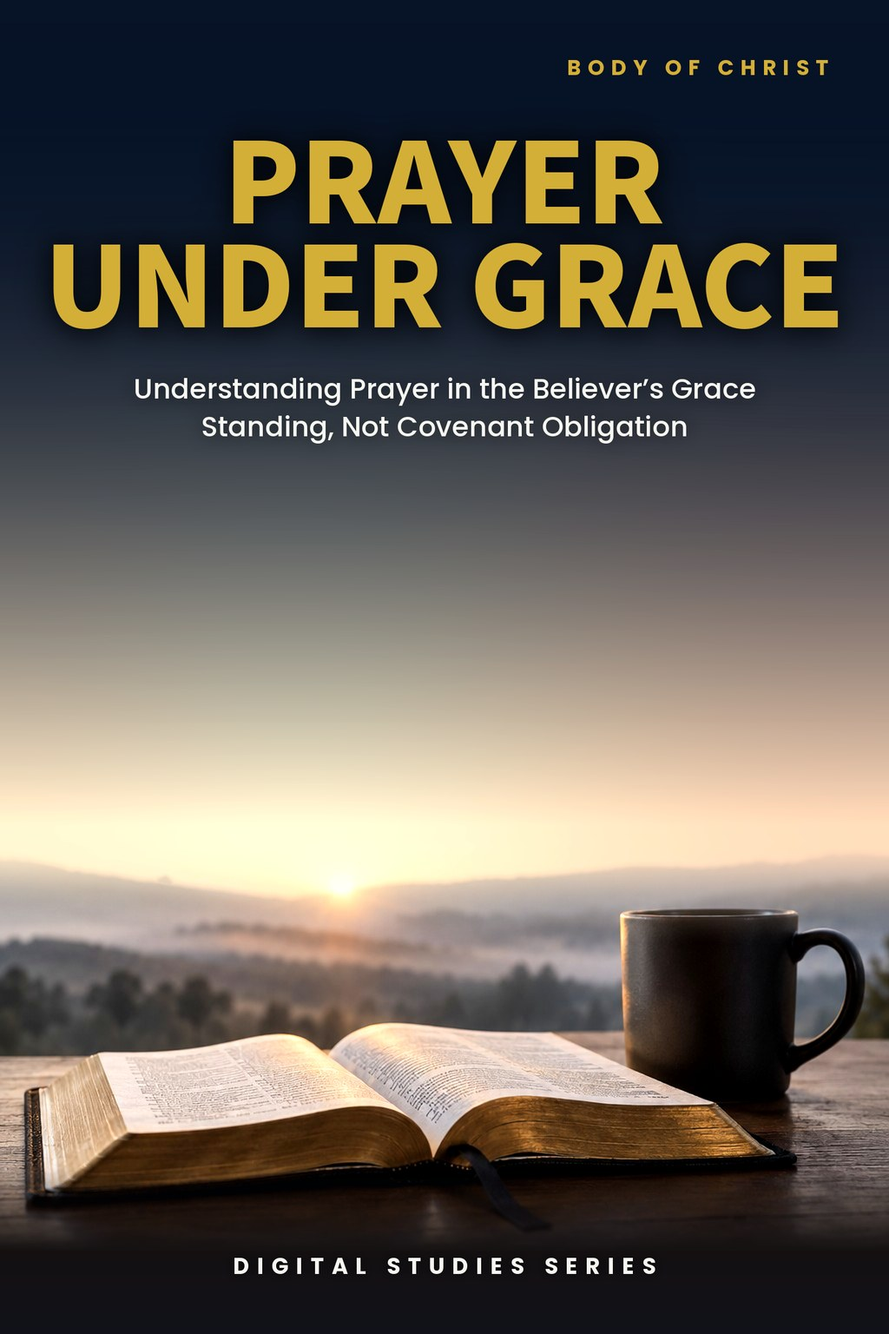
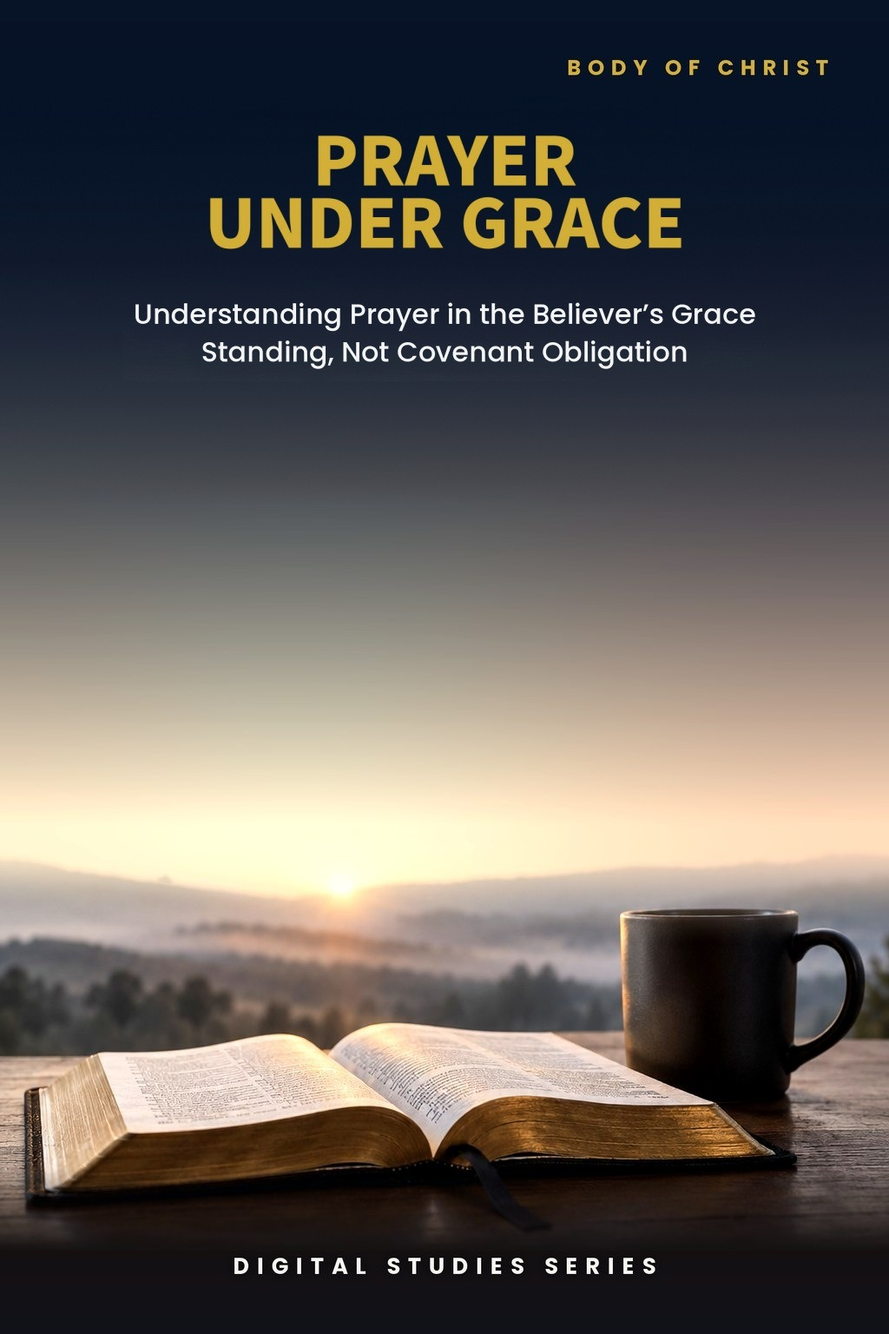
Study 22: Roboto rebuild, approved PAM addition and figure relabel, cover title reduced (jpg+webp), three previews, 16 pages; tracker v1.51
Claude-Session: https://claude.ai/code/session_01TLNFW47XCW6YAMUxScR3v4

Changed region(s): [[0.0312, 0.0938, 0.9375, 0.3438]]

diff --git a/study-22-prayer-under-grace.html b/study-22-prayer-under-grace.html
@@ -14,7 +14,7 @@
   <body class="study-detail-page">
     <header class="site-header"><div class="wrap nav"><a class="logo" href="index.html" aria-label="Zay-Marie Press home"><img src="assets/zay-marie-press-logo-hq.png" alt="Zay-Marie Press" width="420" height="238" /></a><button class="menu-toggle" type="button" aria-expanded="false" aria-controls="primary-nav">MENU</button><nav aria-label="Primary navigation" class="primary-nav" id="primary-nav"><a href="index.html">HOME</a><a href="books.html">BOOKS</a><a href="series.html">SERIES</a><a class="active" aria-current="page" href="digital-studies.html">DIGITAL STUDIES</a><a href="biblical-hermeneutics-course.html">COURSE</a><a href="about.html">ABOUT</a><a href="resources.html">RESOURCES</a><a href="contact.html">CONTACT</a></nav></div></header>
     <main>
-      <section class="detail-hero"><div class="wrap detail-hero-grid"><div class="detail-cover"><img src="assets/study-22-cover.jpg" alt="Prayer Under Grace - Study 22 cover" /></div><div><div class="eyebrow">STUDY 22 · DIGITAL STUDY</div><h1>Prayer Under Grace</h1><p class="detail-subtitle">Understanding Prayer in the Believer’s Grace Standing, Not Covenant Obligation</p><p class="detail-kicker">A Biblical Study of Kingdom Promises, Pauline Instruction, and Confident Prayer</p><p class="detail-copy">Prayer remains vital under Grace, but every biblical prayer promise must be read in the audience and revelatory setting in which God gave it. Kingdom promises spoken to Israel and the Twelve retain their full force in their own setting; Paul’s instruction gives the Body of Christ its governing doctrine of prayer.</p><p class="detail-copy">This study traces Paul’s teaching on requests, thanksgiving, intercession, peace, weakness, and sufficient grace. It equips believers to pray confidently, specifically, and continually while resting in God’s wisdom and will.</p><div class="detail-buyline"><span class="detail-price">$5.99</span><span class="detail-format">Digital PDF · 15 Pages</span><span class="detail-button pending" aria-disabled="true">Checkout Coming Soon</span></div></div></div></section>
+      <section class="detail-hero"><div class="wrap detail-hero-grid"><div class="detail-cover"><picture><source srcset="assets/study-22-cover.webp" type="image/webp"><img src="assets/study-22-cover.jpg" alt="Prayer Under Grace - Study 22 cover" /></picture></div><div><div class="eyebrow">STUDY 22 · DIGITAL STUDY</div><h1>Prayer Under Grace</h1><p class="detail-subtitle">Understanding Prayer in the Believer’s Grace Standing, Not Covenant Obligation</p><p class="detail-kicker">A Biblical Study of Kingdom Promises, Pauline Instruction, and Confident Prayer</p><p class="detail-copy">Prayer remains vital under Grace, but every biblical prayer promise must be read in the audience and revelatory setting in which God gave it. Kingdom promises spoken to Israel and the Twelve retain their full force in their own setting; Paul’s instruction gives the Body of Christ its governing doctrine of prayer.</p><p class="detail-copy">This study traces Paul’s teaching on requests, thanksgiving, intercession, peace, weakness, and sufficient grace. It equips believers to pray confidently, specifically, and continually while resting in God’s wisdom and will.</p><div class="detail-buyline"><span class="detail-price">$5.99</span><span class="detail-format">Digital PDF · 16 Pages</span><span class="detail-button pending" aria-disabled="true">Checkout Coming Soon</span></div></div></div></section>
       <section class="detail-section"><div class="wrap"><div class="eyebrow">ABOUT THIS STUDY</div><h2>What Does Prayer Under Grace Mean?</h2><p class="lead">Prayer did not begin with the Mystery, and it is not diminished under Grace. Scripture records prayer throughout its history, yet a recurring practice does not make every promise attached to prayer identical for every audience.</p><p class="lead">This study reads the Kingdom prayer promises in their original setting, preserves the Acts Overlap of Prophecy and Mystery, and builds the Body’s practice of prayer from the revelation given through Paul. It shows how Philippians 4, Romans 8, and 2 Corinthians 12 shape confident prayer when circumstances remain unchanged.</p><p class="lead">This is not a study of the believer’s whole standing in Christ, which Study 16 surveys in full, nor of the general method for learning from Scripture addressed to Israel, which Study 39 supplies, nor of another practice reframed under grace, which Study 47 traces for giving. Its task is narrower: to read the Kingdom’s own prayer promises in their original setting, and to build the Body’s actual practice of prayer from what Paul himself reveals — not from a Kingdom-era promise transferred without its terms.</p><div class="study-distinction"><h3>How These Studies Relate</h3><p>Study 22 establishes prayer under grace from Paul while reading Kingdom prayer promises in their own setting.</p><p><a href="study-16-the-believers-identity-in-christ.html">Study 16 — The Believer's Identity in Christ</a> Place prayer within the believer’s present standing in Christ; this helps relate confidence before God to daily practice without promising a particular change in circumstances.</p><p><a href="study-39-the-churchs-relationship-to-israels-scriptures.html">Study 39 — The Church’s Relationship to Israel’s Scriptures</a> Use the distinction between learning from earlier Scripture and claiming a promise addressed to another audience when reading prayer teaching outside Paul’s letters.</p><p><a href="study-47-giving-under-grace.html">Study 47 — Giving Under Grace</a> Compare another practice of the believer's daily life reframed under grace rather than under a Kingdom-era command, the same interpretive move this study applies to prayer.</p><p class="connection-guide-link"><a href="study-connections.html#study-22">Explore the full connection guide for Study 22 →</a></p></div><div class="cross-strand-note"><p class="cross-strand-label">FROM THE PARABLES STRAND</p><p>The Friend and the Persistent Widow gives a related but distinct prayer instruction, addressed to Kingdom hearers rather than the Body of Christ.</p><p><a href="parable-25-the-friend-and-the-persistent-widow.html">The Friend and the Persistent Widow</a></p></div></div></section>
       <section class="detail-section soft"><div class="wrap"><div class="eyebrow">WHAT YOU’LL STUDY</div><h2>Build a Confident Pattern of Prayer Under Grace</h2><div class="study-points">
         <div class="study-point"><h3>Prayer Across Scripture</h3><p>Trace prayer's presence across the Old Testament, the Gospels, and Acts, and ask which audience and setting each recorded promise actually addresses.</p></div>
@@ -36,13 +36,12 @@
       </div></div></section>
       <section class="detail-section"><div class="wrap"><div class="eyebrow">FROM THE STUDY</div><h2>Prayer With Confidence Under Grace</h2><div class="excerpt"><blockquote>“Prayer under Grace is not dependent upon the believer possessing exhaustive knowledge of providence.”</blockquote><p>A Christian can bring a burden to God even when he cannot see which outcome would best serve God’s purpose.</p></div></div></section>
       <section class="detail-section soft"><div class="wrap"><div class="eyebrow">A LOOK INSIDE</div><h2>Preview the Study Before You Purchase</h2><p class="preview-instruction">Click any page to enlarge it for reading.</p><div class="preview-grid">
-        <div class="preview-card"><a class="preview-image-link" data-preview-lightbox href="assets/study-22-page-2.jpg"><img src="assets/study-22-page-2.jpg" alt="Study 22 interior preview — page 2, What You Will Learn in This Study" /></a><div class="page-no">Page 2</div><h3>What You Will Learn in This Study</h3><p>Begin with the governing questions and the Body’s positive doctrine of prayer.</p></div>
-        <div class="preview-card"><a class="preview-image-link" data-preview-lightbox href="assets/study-22-page-5.jpg"><img src="assets/study-22-page-5.jpg" alt="Study 22 interior preview — page 5, Kingdom prayer promises in their setting" /></a><div class="page-no">Page 5</div><h3>Kingdom Prayer Promises</h3><p>Read Christ’s prayer promises in their original Israel and Kingdom setting.</p></div>
-        <div class="preview-card"><a class="preview-image-link" data-preview-lightbox href="assets/study-22-page-8.jpg"><img src="assets/study-22-page-8.jpg" alt="Study 22 interior preview — page 8, prayer, requests, thanksgiving, and peace" /></a><div class="page-no">Page 8</div><h3>Prayer, Requests, Thanksgiving, and Peace</h3><p>Follow Paul’s instruction for bringing real requests to God with thanksgiving.</p></div>
-        <div class="preview-card"><a class="preview-image-link" data-preview-lightbox href="assets/study-22-page-10.jpg"><img src="assets/study-22-page-10.jpg" alt="Study 22 interior preview — page 10, Study Summary and Key Distinctions" /></a><div class="page-no">Page 10</div><h3>Sufficient Grace and a Biblical Pattern</h3><p>See how Paul’s thorn and God’s sufficient grace shape confident prayer.</p></div>
+        <div class="preview-card"><a class="preview-image-link" data-preview-lightbox href="assets/study-22-page-2.jpg"><img src="assets/study-22-page-2.jpg" alt="Study 22 interior preview — page 2, Table of Contents" /></a><div class="page-no">Page 2</div><h3>Table of Contents</h3><p>See the full path of the study, from the governing questions to the final synthesis.</p></div>
+        <div class="preview-card"><a class="preview-image-link" data-preview-lightbox href="assets/study-22-page-3.jpg"><img src="assets/study-22-page-3.jpg" alt="Study 22 interior preview — page 3, What You Will Learn in This Study" /></a><div class="page-no">Page 3</div><h3>What You Will Learn in This Study</h3><p>Begin with the skills and interpretive disciplines the study will teach.</p></div>
+        <div class="preview-card"><a class="preview-image-link" data-preview-lightbox href="assets/study-22-page-4.jpg"><img src="assets/study-22-page-4.jpg" alt="Study 22 interior preview — page 4, Introduction" /></a><div class="page-no">Page 4</div><h3>Introduction</h3><p>See how the study frames prayer by audience, revelation and governing promise.</p></div>
       </div></div></section>
       <section class="detail-section"><div class="wrap"><div class="eyebrow">WHAT’S INCLUDED</div><h2>A Focused Study Built for<br />Understanding and Teaching</h2><div class="includes-grid">
-        <div class="include-item"><h3>14-Page Biblical Study</h3><p>A focused study of Kingdom prayer promises and Pauline instruction for the Body of Christ.</p></div>
+        <div class="include-item"><h3>16-Page Biblical Study</h3><p>A focused study of Kingdom prayer promises and Pauline instruction for the Body of Christ.</p></div>
         <div class="include-item"><h3>A Full Teaching Outline</h3><p>Follow the argument from Kingdom prayer promises to Paul's own commands for the Body.</p></div>
         <div class="include-item"><h3>Pauline Prayer Instruction</h3><p>Trace requests, thanksgiving, intercession, peace, and sufficient grace through Paul's own letters.</p></div>
         <div class="include-item"><h3>Kingdom Promise Context</h3><p>Examine Christ's upper-room prayer promises in their own setting before any later application.</p></div>
@@ -51,7 +50,7 @@
         <div class="include-item"><h3>Scripture-Tracing Exercise</h3><p>Trace Kingdom and Pauline passages in their own audiences and revealed settings.</p></div>
         <div class="include-item"><h3>Teaching and Discussion Tools</h3><p>Use review questions, a teaching outline, further study, and final synthesis for personal or group use.</p></div>
       </div></div></section>
-      <section class="detail-section cream"><div class="wrap"><div class="final-buy"><div><div class="eyebrow">STUDY 22 · DIGITAL STUDY</div><h2>Prayer Under Grace</h2><p>15-page digital PDF · For personal use</p></div><div class="final-offer"><div class="detail-price">$5.99</div><span class="detail-button pending" aria-disabled="true">Checkout Coming Soon</span></div></div><a class="back-link" href="digital-studies.html">← Back to All Digital Studies</a></div></section>
+      <section class="detail-section cream"><div class="wrap"><div class="final-buy"><div><div class="eyebrow">STUDY 22 · DIGITAL STUDY</div><h2>Prayer Under Grace</h2><p>16-page digital PDF · For personal use</p></div><div class="final-offer"><div class="detail-price">$5.99</div><span class="detail-button pending" aria-disabled="true">Checkout Coming Soon</span></div></div><a class="back-link" href="digital-studies.html">← Back to All Digital Studies</a></div></section>
     <section class="study-method-course-bridge"><div class="wrap"><div class="study-method-course-panel"><div><div class="eyebrow">BUILD THE INTERPRETIVE METHOD</div><h2>Want More Than a Focused Study?</h2><p>Digital Studies examine particular biblical subjects and difficult passages. The 40-lesson Biblical Hermeneutics course teaches a complete, repeatable method for establishing meaning in context, determining proper assignment, and making responsible application.</p></div><a class="btn btn-primary" href="biblical-hermeneutics-course.html">BIBLICAL HERMENEUTICS COURSE</a></div></div></section></main><footer class="site-footer"><div class="wrap footer-grid"><div class="footer-about"><h3>Zay-Marie Press</h3><p class="footer-tagline"><em>Where the Bible Means What It Says.</em></p><p>Zay-Marie Press is a Christian theological publisher dedicated to producing doctrinally precise, carefully structured biblical resources that equip pastors, teachers, and serious students with clarity, depth, and Scripture-anchored truth.</p><p><a href="https://zaymariepress.com">zaymariepress.com</a><br/><a href="mailto:info@zaymariepress.com">info@zaymariepress.com</a></p></div><div class="footer-column"><h3>Explore</h3><div class="footer-links-stacked"><a href="books.html">Books</a><br/><a href="series.html">Series</a><br/><a href="biblical-hermeneutics-course.html">Course</a><br/><a href="digital-studies.html">Digital Studies</a><br/><a href="resources.html">Resources</a><br/><a href="bible-book-summaries.html">Bible Book Summaries</a><br/><a href="doctrinal-packets.html">Doctrinal Packets</a><br/><a href="historical-drift.html">Historical Drift</a><br/><a href="about.html">About</a><br/><a href="contact.html">Contact</a></div></div><div class="footer-column"><h3>Reader Support</h3><div class="footer-links-stacked"><a href="reader-support.html#faq">FAQ</a><br/><a href="reader-support.html#shipping-returns">Shipping &amp; Returns</a><br/><a href="reader-support.html#digital-downloads">Digital Downloads</a><br/><a href="reader-support.html#contact-support">Contact Support</a></div></div><div class="footer-column"><h3>Acts Overlap</h3><p><strong>Acts Overlap Theology Series</strong></p><p><em>Two Distinct Streams. One Overlap.</em></p><p><a href="series.html">Series Overview</a></p></div></div><div class="wrap footer-bottom">© 2026 Zay-Marie Press. All rights reserved.</div></footer>
     <div class="preview-lightbox" id="preview-lightbox" role="dialog" aria-modal="true" aria-label="Expanded study preview"><button class="preview-lightbox-close" type="button" aria-label="Close preview">×</button><img id="preview-lightbox-image" alt="" /></div>
     <script>

diff --git a/site.js b/site.js
@@ -62,7 +62,7 @@ const resourceModal=document.querySelector('#resource-modal'), resourceModalTitl
 if(resourceModal&&resourceModalTriggers.length){const closeResourceModal=()=>{resourceModal.hidden=true;document.body.classList.remove('resource-modal-open');lastResourceTrigger?.focus();};resourceModalTriggers.forEach(trigger=>trigger.addEventListener('click',()=>{lastResourceTrigger=trigger;if(resourceModalTitle)resourceModalTitle.textContent=trigger.dataset.title||'Resource';if(resourceModalDescription)resourceModalDescription.textContent=trigger.dataset.description||'';if(resourceModalLink){resourceModalLink.href=trigger.dataset.href||'#';resourceModalLink.textContent=trigger.dataset.linkText||'OPEN RESOURCE';}resourceModal.hidden=false;document.body.classList.add('resource-modal-open');resourceModalClose?.focus();}));resourceModalClose?.addEventListener('click',closeResourceModal);resourceModal.addEventListener('click',e=>{if(e.target===resourceModal)closeResourceModal();});document.addEventListener('keydown',e=>{if(e.key==='Escape'&&!resourceModal.hidden)closeResourceModal();});}
 
 /* Display the verified final-PDF page count at the primary purchase decision point. */
-const digitalStudyPageCounts={1:14,2:14,3:18,4:18,5:16,6:16,7:16,8:16,9:16,10:23,11:15,12:14,13:18,14:15,15:16,16:16,17:18,18:18,19:16,20:16,21:16,22:15,23:15,24:13,25:13,26:17,27:15,28:14,29:13,30:17,31:17,32:14,33:15,34:16,35:15,36:15,37:15,38:16,39:16,40:15,41:15,42:15,43:17,44:15,45:15,46:15,47:16,48:15,49:14,50:14,51:15,52:15,53:15,54:15,55:16,56:16,61:16,62:16,63:16,64:16,65:16,66:16,67:16,68:16,69:16,70:16,71:16};
+const digitalStudyPageCounts={1:14,2:14,3:18,4:18,5:16,6:16,7:16,8:16,9:16,10:23,11:15,12:14,13:18,14:15,15:16,16:16,17:18,18:18,19:16,20:16,21:16,22:16,23:15,24:13,25:13,26:17,27:15,28:14,29:13,30:17,31:17,32:14,33:15,34:16,35:15,36:15,37:15,38:16,39:16,40:15,41:15,42:15,43:17,44:15,45:15,46:15,47:16,48:15,49:14,50:14,51:15,52:15,53:15,54:15,55:16,56:16,61:16,62:16,63:16,64:16,65:16,66:16,67:16,68:16,69:16,70:16,71:16};
 const digitalStudyMatch=window.location.pathname.match(/\/study-(\d+)-/i);
 const digitalStudyFormat=document.querySelector('.detail-hero .detail-format');
 if(digitalStudyMatch&&digitalStudyFormat){const studyNumber=Number(digitalStudyMatch[1]),pageCount=digitalStudyPageCounts[studyNumber];if(pageCount)digitalStudyFormat.textContent=`Digital PDF · ${pageCount} Pages`;}

diff --git a/controlling-documents/Digital_Studies_PAM_Audit_v1.51.md b/controlling-documents/Digital_Studies_PAM_Audit_v1.51.md
@@ -280,3 +280,4 @@ Study 15 PDF not yet supplied. Typography: none of Studies 2, 3, 6, 8 is in EB G
 - v1.48 (2026-10-01): Study 19 (The Jerusalem Council) read in full against the PAM and Framework from the publisher's DOCX (CORRECTED, 12 pages): clear, no conflicts (Acts 15 kept in the Acts 9–28 Overlap and not assigned to one program, matching the Section 4 ruling; "recognition without absorption" matches the PAM's "recognition of two ministries operating in overlap"; the study never says the Body began at Acts 15). The publisher approved three PAM additions, inserted exactly as proposed: (1) Cornelius (Acts 10–11) stated as an event within Israel's Prophecy Program during the Overlap, not Pauline revelation and not the beginning of the Body (replaces the first sentence of the Peter's-testimony paragraph, Section 2); (2) Galatians 2:7–9, gospel of the uncircumcision and of the circumcision, "the text states the two commissions; the council does not merge them" (Section 9, after "It is recognition without absorption."); (3) "Nothing in Acts 15 applies the New Covenant to Gentiles. The council addresses what may be required of Gentile believers, not who the covenant parties are." (end of "The Importance of What Was Not Imposed", Section 6). The publisher ruled that the decree wording on the four restrictions (not automatically a shortened Mosaic Law) stays as written. Rebuilt in Roboto to Master Standard v1.30: 16 pages (cover plus 15 interior; the source text alone fills 14 interior pages in this format, so only one of five drafted KJV tables was kept: "Acts 15:16–17 Beside Amos 9:11–12"; the other four, Road to the Council, Peter Recalls Cornelius, the Letter in Acts 15:22–29 and Galatians 2:1–10 Beside Acts 15, are written and held back for length), margins 0.667 in. "What You Will Learn" bullets rewritten as process (five of eight stated conclusions; §17), Study Goal reworded ("explain, from the text itself, what the council recognized and what it resolved"), Interpretive Control moved to the Introduction, Study Outline redrafted as process-only bullets, seven callouts reduced to five boxed (Study Goal, Interpretive Control, Prophecy Remains Prophecy, Acts Overlap Principle, Final Doctrinal Principle; The Central Question and The Decree Is Not a Shortened Mosaic Covenant became bold run-in paragraphs), TOC first with page numbers, Teaching Outline and Guided Further Study split into bullets, running header removed, standard imprint (personal-use wording dropped), one spacer paragraph so a data table and a callout do not merge, Scripture-Tracing table allowed to break across pages. Word-by-word comparison against the source shows only the intended changes. Category: Passages (already ruled; one passage walked verse by verse), cover label PASSAGES. Cover: the publisher supplied a new image (1684 x 2528) which replaces the earlier art, trimmed 2 px and scaled to 1024 x 1536; JPG and a new WebP (page now uses a picture element with the JPG as fallback). Website: preview strip cut from four cards to three (Table of Contents p2, What You Will Learn p3, Introduction and the Controversy p4); old p5, p7 and p11 images removed; the six "What You'll Study" points rewritten as process (five stated conclusions; §17); page count 13 to 16 in site.js, the hero line, the What's Included card and the buy panel. Checked locally at 1280, 390, 360 and 320 px: no sideways overflow, all images load, 3 preview cards, 6 study points, no script errors. Publisher approved ("i approv") and pushed. Choice for the publisher to review: no page of this study is free of conclusions, so the third preview page is page 4 (the introduction and the controversy), the least conclusive. Next file needed: Study 20.
 - v1.49 (2026-10-01): Study 20 (Understanding Acts 2:38) read in full against the PAM and Framework from the publisher's PDF (13 pages; no DOCX): clear, no conflicts (Acts 2 as Prophecy/Kingdom setting with Joel 2, "Repent and be baptized" not Spirit baptism into the Body, Mystery from Acts 9 and not Pentecost per PAM Rule 4, Acts 9–28 overlap, Prophecy suspended at Acts 28). Silent points (Acts 3:19–21, remission of sins, "all that are afar off" in Acts 2:39) are reported as text only. The publisher approved the proposed additions: (1) Paul's water baptisms (Acts 16:15, 33; 18:8; 19:5; 1 Cor. 1:14–16) acknowledged at the end of the second paragraph of Section 10, from the Framework's water-baptism ruling (not denied; read within the Acts 9–28 concurrency; do not give Paul the Twelve's commission; do not make water baptism the Body's defining baptism); (2) "Kingdom entry" (PAM, Acts 2) added in Section 5; (3) the undefined "Seven Diagnostic Lenses" reworded to "seven lenses" with the seven listed. Rebuilt in Roboto to Master Standard v1.30: 16 pages (cover plus 15 interior; source was 12 interior); one KJV table added, "Joel 2:28–32 Beside Acts 2:16–21" (a second, "The Sermon in Order" for Acts 2:14–37, written and held back for length). Introduction starts on its own page; the Peter art kept on page 4. "What You Will Learn" rewritten as eight process bullets (six stated conclusions; §17), Study Goal reworded, Study Outline redrafted as process-only bullets, seven callouts reduced to five boxed (Study Goal, Interpretive Control, Do Not Weaken Peter's Words, Acts Overlap Principle, Final Study Control; Context Before Formula and Audience Control became bold run-ins), Roman-numeral Teaching Outline converted to bold group heads with bullets, TOC first with page numbers, standard imprint added, headings use the em dash. Category: Passages (already ruled), cover label PASSAGES. Cover: publisher-supplied image (686 x 1024) trimmed 3 px to 2:3 and scaled to 1024 x 1536; JPG and a new WebP (page now uses a picture element with the JPG fallback). Website: previews now Table of Contents p2, What You Will Learn p3, Introduction p4 (old p5 removed); page count 13 to 16 in site.js, hero line, What's Included card and buy panel text; the six "What You'll Study" points were left as audited in v1.1. Publisher approved ("i approve"); pushed.
 - v1.50 (2026-10-01): Study 21 (Israel's Judicial Blinding) read in full against the PAM and Framework from the publisher's PDF (14 pages, v25; no DOCX): clear, no conflicts (Acts 28 as the national judicial suspension of Israel's Prophecy administration, "suspended, not abolished"; Acts 9–28 overlap; Mystery continues beyond Acts 28; Acts 28 distinct from the local turns to the Gentiles; covenants not transferred to the Body). The publisher approved three additions, inserted as proposed: (1) Romans 11:25 classified as Prophecy Program content, Israel's future restoration, given during the Mystery administration, with the fulness of the Gentiles not the Body's fullness (end of Section 9, from the PAM and the Section 4 ruling); (2) the remnant of Romans 11:5 classified as Israel's believing remnant, the same as the Old Testament remnant, in the Prophecy Program, never Gentiles and not the Body by identity, ethnic-covenantal and not administrative, with believing Jews gathered into the Body during the Mystery administration and no separate prophetic remnant placed outside it (Section 8; PAM and the 2026-09-30 remnant ruling); (3) a sentence naming the local turns to the Gentiles (Acts 13:46; 18:6; 19:8–9) against the national pronouncement at Acts 28 (Section 12, Framework). Four source defects fixed with approval: a table cell cut off at "or future" now reads "or future fulfillment"; an orphan caption ("Romans 11:25 — Israel's blindness is national, partial, and bounded.") with no image removed; an empty-left-cell row in the Acts 28 table removed (Section 13 states the point); the old copyright line replaced with the standard imprint. Rebuilt in Roboto to Master Standard v1.30 from the PDF text: 16 pages (cover plus 15 interior, no added tables needed; two drafted KJV tables, "Isaiah 6:9–10 Beside Its New Testament Uses" and "Romans 11:25–29 Clause by Clause", written and held back, each about one page). "What You Will Learn" rewritten as eight process bullets (six stated conclusions; §17), Study Goal reworded, Study Outline kept as process bullets with two lines reworded, six callouts reduced to five boxed (Study Goal, Interpretive Control, Romans 11 Control, Acts 28 Boundary, Final Control; Overlap Control became a bold run-in), running header removed, Roman-numeral Teaching Outline converted to bold group heads with bullets, checkbox list turned into a Scripture-Tracing table (Roboto has no box glyph), curly quotes and en dashes normalized, TOC first with page numbers, headings use the em dash. Word-level comparison against the source shows only the intended changes. Category: Israel & Prophecy (already ruled), cover label ISRAEL & PROPHECY. Cover: the website cover, with the title "JUDICIAL BLINDING" reduced 25% and then a further 10% (to 67.5% of its original size, top edge and spacing to the subtitle kept; the subtitle moved up about 23 px) by the publisher's direction; JPG re-saved and a new WebP (page now uses a picture element with the JPG fallback). Website: previews cut from four cards to three (Table of Contents p2, What You Will Learn p3, Introduction p4); old p6, p8 and p11 images removed; page count 14 to 16 in site.js, the hero line, the What's Included card and the buy panel; the six "What You'll Study" points left as audited in v1.1. Publisher approved cover and content ("i approve of cover and content"); pushed.
+- v1.51 (2026-10-01): Study 22 (Prayer Under Grace) read against the PAM and Framework from the publisher's PDF (13 pages; no DOCX) and rebuilt to the Master Standard (Roboto, five boxed callouts, Slate Blue tables, TOC first, 16 pages). Approved additions: John 14 sentence in Section 5 (the Comforter is given to Israel's apostles, John 14:16–17, not the Body's indwelling doctrine; Prophecy Program per the Framework). Figure re-labelled at the publisher's direction: sub-heading "UNDER ISRAEL'S COVENANTS" (replacing "UNDER THE OLD COVENANT"); rest of the figure untouched (the row "Ethnic Israel under the Old Covenant" still reads "Old Covenant"). Cover: website cover kept, BODY OF CHRIST label, title "PRAYER UNDER GRACE" reduced 40% with the subtitle moved up and the background rebuilt cleanly; JPG + WebP. Website: three previews (pages 2 TOC, 3 What You Will Learn, 4 Introduction) replacing four old previews; page count 15 → 16 in site.js, hero, What's Included and buy panel. Publisher approved ("i approve").
